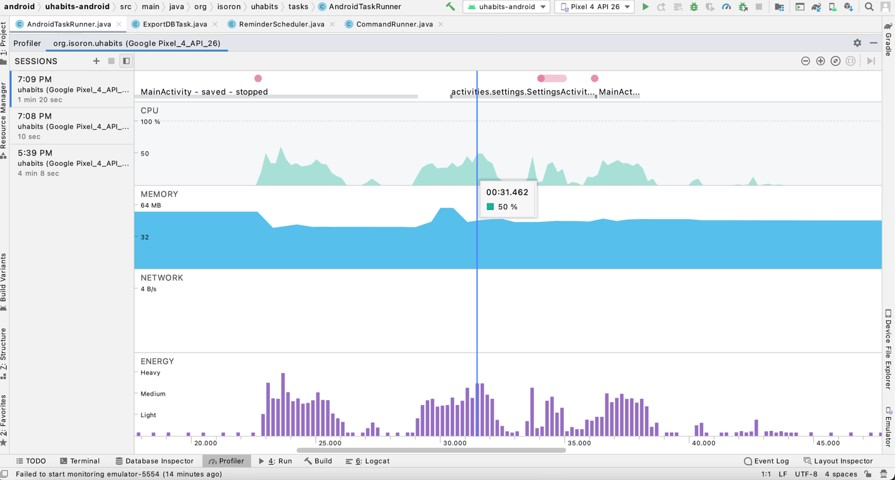
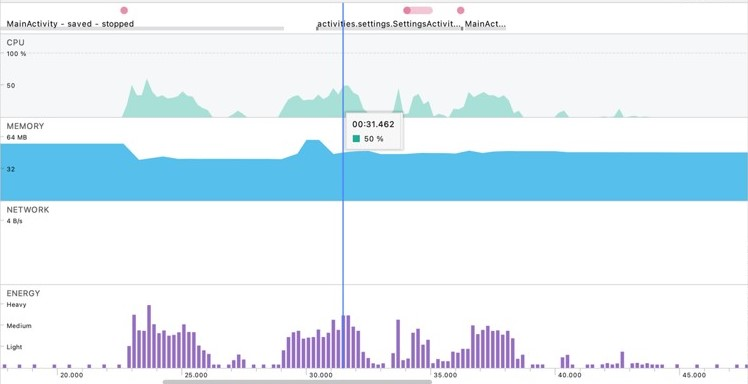
perf, multi and memory

diff --git a/src/components/Memory/Memory.js b/src/components/Memory/Memory.js
@@ -1,9 +1,178 @@
-import React from "react"
+import React, { useState } from "react";
+import Navbar from "react-bootstrap/Navbar";
+import Nav from "react-bootstrap/nav";
+import Content from "../Content/Content";
 
-export default function Memory(){
-    return(
-        <div className="container-fluid">
-            <h1 className="text-center">Memory</h1>
-        </div>
-    );
+//Imgs
+import Picture1 from "../Performance/Start1.png";
+import Export from "./export.jpg";
+import Ful from "../Home/Android.svg";
+import Launch from "./launch.jpg";
+import Overview from "./overviewl.jpg";
+import Rotate from "./rotate.jpg";
+import AddHabit from "./habit.jpg";
+
+const items = [
+  "Profiler",
+  "Launch",
+  "Habit managment",
+  "Rotating view",
+  "Fulfillment of habit",
+  "Habit detail",
+  "Exporting data",
+];
+
+const contenido = [
+  {
+    name: items[0],
+    contenido: [
+      {
+        text:
+          "As with the Performance section, we used Android Profiler to analyze the memory management of the app. We used, as well, the emulator of a Google Pixel 4 running Android API 26 to run the tests. We analyzed too the same five instances of the app: launch, adding and editing a habit, rotating the phone while in the main activity, mark fulfillment of a habit, showing the dashboard related to a given habit and exporting the habits to a .csv file.",
+        image: Picture1,
+        alt: "Image of the emulator",
+        h: "300px",
+        w: "500px",
+        titulo: "Profiler settings",
+      },
+    ],
+  },
+  {
+    name: items[1],
+    contenido: [
+      {
+        text:
+          "It is worth mentioning that during the launch, Android Profiler reported a memory leak. The class that has the problem is AppIntroFragment which oversees giving the welcome to the users when they first open the app. A screen shot is attached below as evidence of what we just say.",
+        image: Launch,
+        alt: "Image of the profiler when lauching the app",
+        h: "800px",
+        w: "155px",
+        titulo: "Opening the app",
+      },
+    ],
+  },
+  {
+    name: items[2],
+    contenido: [
+      {
+        text:
+          "We now move on to the second feature that we tested: adding and editing an app. When running the app and the profiler we observed that memory allocation during the task adding keeps constant and on the range of 42MB. 0 memory leaks where reported and the following are the objects that were using more memory when dumping the java heap.",
+        image: AddHabit,
+        alt: "Image of the profiler when adding or editing a habit",
+        h: "800px",
+        w: "400px",
+        titulo: "Adding and editing habits",
+      },
+    ],
+  },
+  {
+    name: items[3],
+    contenido: [
+      {
+        text:
+          "The third functionality that we tested is the one of rotating the phone while on the main activity. Memory allocatzion maintain constant and on the same range (42MB) while rotating the phone. However, the heap dump reported two memory leaks that are shown below. The classes reported are in charge of listing the habits added by the user in the UI. These leaks have to do with the fact that when rotating the phone and rendering the new view that is going to be displayed, the app never deallocates the memory that was given to the previous view shown. ",
+        image: Rotate,
+        alt: "Image profiler when rotating",
+        h: "800px",
+        w: "155px",
+        titulo: "Rotating the phone",
+      }
+    ],
+  },
+  {
+    name: items[4],
+    contenido: [
+      {
+        text:
+          "The marking of fulfillment of an habit feature test does not report any anomalies. And, as with the features that we have already analyzed, memory keeps constant and in the range of 42MB.",
+        image: Ful,
+        alt: "Image profiler when fulilling a habit",
+        h: "300px",
+        w: "300px",
+        titulo: "Habit fulfillment",
+      },
+    ],
+  },
+  {
+    name: items[5],
+    contenido: [
+      {
+        text:
+          "When showing the dashboard associated to an habit, Android Profiler reported the following memory leaks. We cannot explain why these classes are reported to be memory leaking since the view displayed (the dashboard of the habit) is, precisely, in charge of the class ShowHabitActivity whose elements are being referenced when the dashboard is displayed. ",
+        image: Overview,
+        alt: "Image of the profiler when entering the overview",
+        h: "800px",
+        w: "150px",
+        titulo: "Habit overview dashboard",
+      },
+    ],
+  },
+  {
+    name: items[6],
+    contenido: [
+      {
+        text:
+          "Finally, when testing the export .csv feature, 6 memory leaks were reported by Android Profiler. When you select the export .csv function from the settings view, the app displays another view so that you can choose if whether you prefer to send by e-mail the .csv file containing your habits or store it in Google Drive. The problem here is again that when changing to a new view, the app is not deallocating the memory that has been given to the previous view. . ",
+        image: Export,
+        alt: "Image of profiler when exporting the data on a csv file",
+        h: "800px",
+        w: "255px",
+        titulo: "Exporting the data to a .csv file",
+      },
+    ],
+  },
+];
+
+export default function Memory() {
+  const [curNav, setCurNav] = useState(items[0]);
+  const handleChange = (newNav) => {
+    setCurNav(newNav);
+  };
+  return (
+    <div className="container-fluid">
+      <div className="container">
+        <h1 className="text-center">Memory</h1>
+        <Navbar expand="lg" className="">
+          <Navbar.Toggle aria-controls="basic-navbar-nav-subContent" />
+          <Navbar.Collapse id="basic-navbar-nav-subContent">
+            <Nav className="mx-auto">
+              {items.map((item) => (
+                <Nav.Link
+                  onClick={() => handleChange(item)}
+                  className={curNav === item ? "activeSubNav" : " navContent"}
+                  key={"subnav" + item}
+                >
+                  {item}
+                </Nav.Link>
+              ))}
+            </Nav>
+          </Navbar.Collapse>
+        </Navbar>
+      </div>
+      <hr className="mt-0 mb-0 hrNav" />
+      <div className="contenidosSub">
+        {contenido.map((contenido) =>
+          buildProfilerSetting(contenido.name, curNav, contenido.contenido)
+        )}
+      </div>
+      <hr />
+      <h2 className="title text-center  ">Overview</h2>
+      <div className="container">
+        <h3 className="alignTextCenter">
+        We can conclude from this section that the application performs very well in terms of memory management (during the whole execution memory allocation was on the 42MB range) modulo the memory leaks that we found. However, these are common among the Android apps because displaying a new view usually leads to the memory leaks that we have reported. 
+        </h3>
+      </div>
+    </div>
+  );
 }
+
+function buildProfilerSetting(name, curNav, contenido) {
+  let style = name === curNav ? "" : "none";
+
+  return (
+    <div style={{ display: style }}>
+      <Content contenidos={contenido}></Content>
+    </div>
+  );
+}
+

diff --git a/src/components/Multi/Multi.js b/src/components/Multi/Multi.js
@@ -1,9 +1,131 @@
-import React from "react"
+import React, { useState } from "react";
+import Navbar from "react-bootstrap/Navbar";
+import Nav from "react-bootstrap/nav";
+import Content from "../Content/Content";
 
-export default function Multi(){
-    return(
-        <div className="container-fluid">
-            <h1 className="text-center">Multi-threading</h1>
-        </div>
-    );
+//Imgs
+import Mult from "./milti.jpg";
+import Runner from "./runner.jpg";
+import Task from "./task.jpg";
+import Task1 from "./task1.jpg";
+import Task2 from "./task2.jpg";
+
+const items = ["Multi - threading", "Tasks", "Task Runner"];
+
+const contenido = [
+  {
+    name: items[0],
+    contenido: [
+      {
+        text:
+          "All the multithreading of the app is handled in the task package of the app.",
+        image: Mult,
+        alt: "Image of the package where the tasks are located",
+        h: "300px",
+        w: "500px",
+        titulo: "Multi - threading",
+      },
+    ],
+  },
+  {
+    name: items[1],
+    contenido: [
+      {
+        text:
+          "Both ExportDBTask and ImportDataTask correspond to async tasks that do not run on the main thread. The first one deals with exporting a full backup of the habits that you have added in the application. The second class is in charge of importing into the app previously saved backups of the application.",
+        image: Task,
+        alt: "Image of the profiler when lauching the app",
+        h: "600px",
+        w: "255px",
+        titulo: "Async tasks",
+      },
+      {
+        text:
+          "We find that these classes represent asynchronous tasks because they extend from Async task and implement the doInBackground() and onPostExecute() methods which are typically implemented in tasks that do not run on the main thread.",
+        image: Task1,
+        alt: "Image of the export data task class",
+        h: "700px",
+        w: "455px",
+        titulo: "Export DB task",
+      },
+      {
+        text: "",
+        image: Task2,
+        alt: "Image of the import data task class",
+        h: "700px",
+        w: "455px",
+        titulo: "Import data Task",
+      },
+    ],
+  },
+  {
+    name: items[2],
+    contenido: [
+      {
+        text:
+          "Finally, we turn our attention to the AndroidTaskRunner class. This class is an application of the Façade pattern since it provides a unified high-level interface to both ExportDBTask and ImportDataTask. We arrived at this conclusion when reviewing the implementation of this class and noting that it implements the CustomAsyncTask class, which extends the AsyncTask class of Android, that is a wrapper of both classes already described.  Below we attach a screen shot as an evidence of what we just said.",
+        image: Runner,
+        alt: "Image of the runner implementation",
+        h: "750px",
+        w: "800px",
+        titulo: "Android task runner",
+      },
+    ],
+  },
+];
+
+export default function Multi() {
+  const [curNav, setCurNav] = useState(items[0]);
+  const handleChange = (newNav) => {
+    setCurNav(newNav);
+  };
+  return (
+    <div className="container-fluid">
+      <div className="container">
+        <h1 className="text-center">Multi - threading</h1>
+        <Navbar expand="lg" className="">
+          <Navbar.Toggle aria-controls="basic-navbar-nav-subContent" />
+          <Navbar.Collapse id="basic-navbar-nav-subContent">
+            <Nav className="mx-auto">
+              {items.map((item) => (
+                <Nav.Link
+                  onClick={() => handleChange(item)}
+                  className={curNav === item ? "activeSubNav" : " navContent"}
+                  key={"subnav" + item}
+                >
+                  {item}
+                </Nav.Link>
+              ))}
+            </Nav>
+          </Navbar.Collapse>
+        </Navbar>
+      </div>
+      <hr className="mt-0 mb-0 hrNav" />
+      <div className="contenidosSub">
+        {contenido.map((contenido) =>
+          buildProfilerSetting(contenido.name, curNav, contenido.contenido)
+        )}
+      </div>
+      <hr />
+      <h2 className="title text-center  ">Overview</h2>
+      <div className="container">
+        <h3 className="alignTextCenter">
+          We conclude this section observing that we could not find more
+          evidence of multithreading when inspecting the code of the
+          application. However, there are multithreading practices implemented
+          where the app needs to.
+        </h3>
+      </div>
+    </div>
+  );
+}
+
+function buildProfilerSetting(name, curNav, contenido) {
+  let style = name === curNav ? "" : "none";
+
+  return (
+    <div style={{ display: style }}>
+      <Content contenidos={contenido}></Content>
+    </div>
+  );
 }

diff --git a/src/components/Footer/Footer.js b/src/components/Footer/Footer.js
@@ -1,4 +1,4 @@
-import React,{useState} from "react";
+import React from "react";
 
 import Navbar from "react-bootstrap/Navbar";
 import Nav from "react-bootstrap/nav";
@@ -6,25 +6,7 @@ import Image from 'react-bootstrap/Image'
 import logo from "../NavBar/logo.png";
 import "./Footer.css"
 
-const items = [
-    "Performance",
-    "Eventual connectivity",
-    "Caching",
-    "Multi - threading",
-    "Memory management",
-    "Micro - optimizations",
-    "Security",
-  ];
-
 export default function Footer() {
-  let currLink = window.location.href.split("/");
-  currLink = currLink[currLink.length - 1];
-  console.log(currLink);
-  const [activeItem, setActiveItem] = useState(currLink);
-  const handleChange = (change) => {
-    setActiveItem(change);
-  };
-  let active = "" === currLink ? "selected" : "";
   return (
     <footer>
       <Navbar expand="lg"  variant="dark" className="colorHeader">
@@ -43,21 +25,9 @@ export default function Footer() {
         <Navbar.Collapse id="basic-navbar-nav-footer">
           <Nav className="mr-auto navBar"></Nav>
           <Nav className="navBar">
-            {items.map((item) => navItem(item, activeItem))}
           </Nav>
         </Navbar.Collapse>
       </Navbar>
     </footer>
   );
 }
-
-
-function navItem(nombreItem, activeItem) {
-    return (
-   
-        <Nav.Item key={"nav"+nombreItem}>
-         {nombreItem}
-        </Nav.Item>
-   
-    );
-  }

diff --git a/src/components/EventualCon/EventualCon.js b/src/components/EventualCon/EventualCon.js
@@ -1,8 +1,7 @@
 import React, { useState } from "react";
 import Navbar from "react-bootstrap/Navbar";
 import Nav from "react-bootstrap/nav";
-import Content from "../Content/Content";
-import Card from "../Card/Card";
+import Content from "../Content/Content"
 
 //Imgs
 import Firebase from "./firebase.png";

diff --git a/src/components/Performance/Performance.js b/src/components/Performance/Performance.js
@@ -47,7 +47,7 @@ const contenido = [
         image: Launch,
         alt: "Image of the profiler when lauching the app",
         h: "800px",
-        w: "355px",
+        w: "255px",
         titulo: "Opening the app",
       },
     ],
